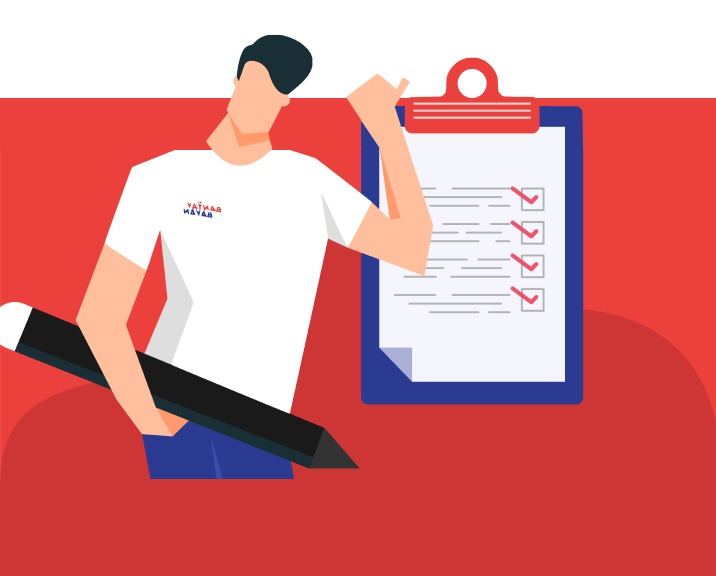
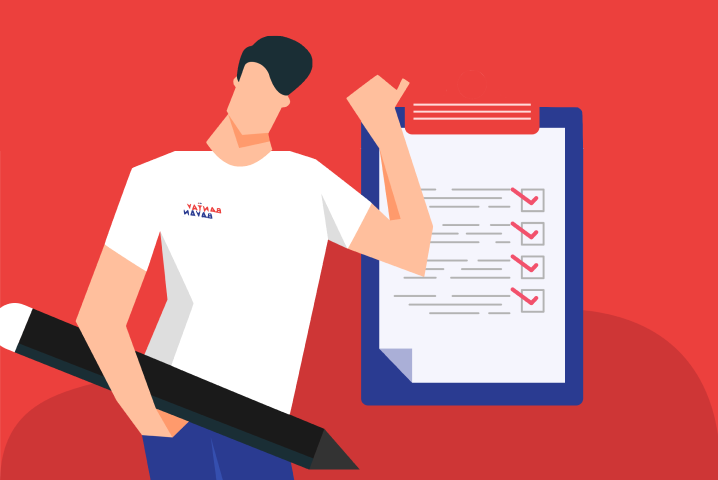
homepage fixed forms mobile navigation for review

diff --git a/public/src/stylesheets/styles.css b/public/src/stylesheets/styles.css
@@ -77,7 +77,7 @@ nav {
     width: 220px;
     min-height: 130px;
     box-shadow: 0 8px 16px 0 rgba(0, 0, 0, 0.2);
-    z-index: 1;
+    z-index: 2;
 }
 
 .formsdrop a {
@@ -294,9 +294,7 @@ footer {
 
 .survey_pic {
     width: 50vw;
-    height: auto;
     max-width: 50%;
-    margin-top: -98.7px;
 }
 
 /*************************************************************************************************************/
@@ -331,8 +329,8 @@ footer {
     font-weight: bold;
     text-align: center;
     color: white;
-    background-color: #EC625D;
-    border: 1px solid #EC625D;
+    background-color: #EC403D;
+    border: 1px solid #EC403D;
     border-radius: 8px;
     text-decoration: none;
     padding: 16px 32px;
@@ -952,11 +950,17 @@ footer {
         display: block;
     }
 
-    .about:hover+.aboutdrop,
-    .forms:hover+.formsdrop,
-    .faqs:hover+.faqsdrop,
-    .contact:hover+.contactdrop {
-        display: none;
+    .formsdrop{
+        width: 100vw;
+        height: 59vh;
+        top: 41vh;
+        left: 0;
+        right: 0;
+    }
+
+    .formsdrop a:hover {
+        color: #2A3B91;
+        background-color: white;
     }
 
     .page_menu {
